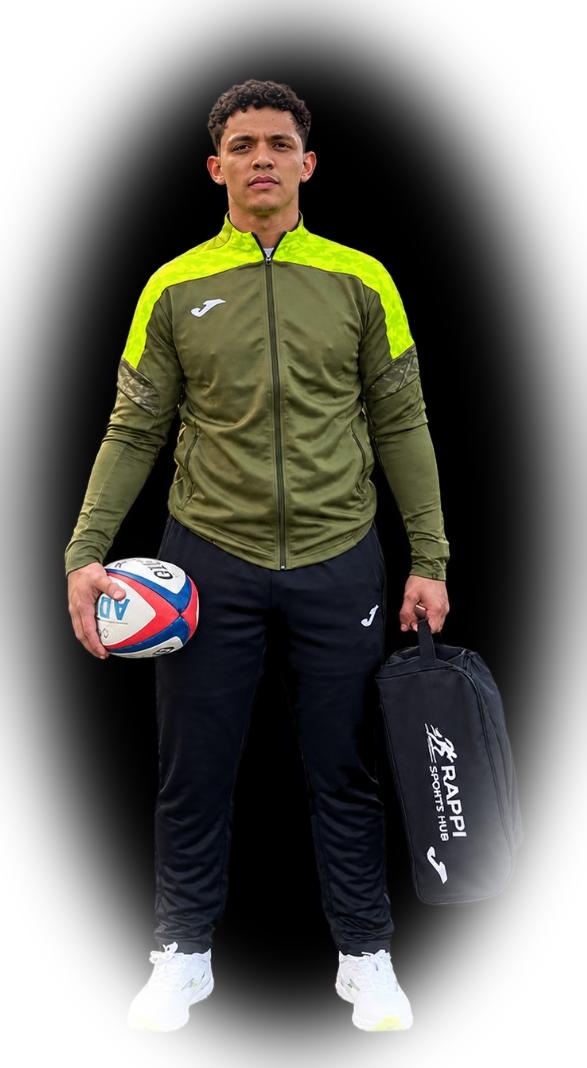
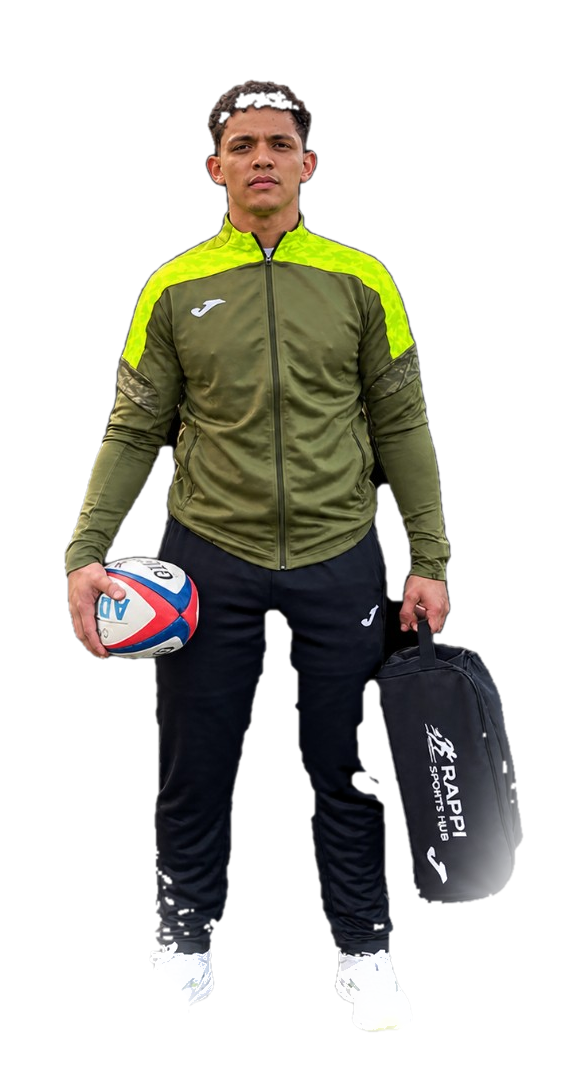
Cut the hero athlete off the dark halo in light mode and portal the mobile menu.

diff --git a/components/site-header.tsx b/components/site-header.tsx
@@ -3,6 +3,7 @@
 import Link from "next/link";
 import { usePathname, useRouter } from "next/navigation";
 import { FormEvent, Suspense, useEffect, useRef, useState } from "react";
+import { createPortal } from "react-dom";
 import { Menu, Search, ShoppingBag, User, X, ChevronDown } from "lucide-react";
 import { BrandLogo } from "@/components/brand-logo";
 import { ThemeToggle } from "@/components/theme-toggle";
@@ -144,16 +145,20 @@ export function SiteHeader({
     ) : null}
     <header
       className={cn(
-        "z-50 border-b pt-[env(safe-area-inset-top)] backdrop-blur-xl backdrop-saturate-150 transition-[background-color,box-shadow,border-color] duration-300",
-        open ? "fixed inset-x-0 top-0" : "sticky top-0",
+        "border-b pt-[env(safe-area-inset-top)] transition-[background-color,box-shadow,border-color] duration-300",
+        // backdrop-filter creates a containing block that clips fixed descendants —
+        // keep blur only when the mobile drawer is closed.
         open
-          ? "border-[var(--border)] bg-[var(--chrome)]"
-          : scrolled
-            ? "border-[var(--border)] bg-[var(--header-bg-scrolled)] shadow-[var(--shadow-soft)]"
-            : "border-[var(--border)] bg-[var(--header-bg)]",
+          ? "fixed inset-x-0 top-0 z-[100] border-[var(--border)] bg-[var(--chrome)]"
+          : cn(
+              "sticky top-0 z-50 backdrop-blur-xl backdrop-saturate-150",
+              scrolled
+                ? "border-[var(--border)] bg-[var(--header-bg-scrolled)] shadow-[var(--shadow-soft)]"
+                : "border-[var(--border)] bg-[var(--header-bg)]",
+            ),
       )}
     >
-      <div className="relative z-[70] page-shell flex h-16 items-center gap-1 sm:h-[5.5rem] sm:gap-4">
+      <div className="page-shell flex h-16 items-center gap-1 sm:h-[5.5rem] sm:gap-4">
         <button
           type="button"
           className="flex h-11 w-11 shrink-0 items-center justify-center rounded-full text-ink transition-colors hover:bg-[var(--hover)] lg:hidden"
@@ -381,86 +386,89 @@ export function SiteHeader({
         </Suspense>
       ) : null}
 
-      {open ? (
-        <div
-          id="mobile-nav"
-          role="dialog"
-          aria-modal="true"
-          aria-label={t("nav.openMenu")}
-          className="fixed inset-0 z-[60] flex flex-col bg-[var(--chrome)] pt-[calc(var(--header-h)+env(safe-area-inset-top))] lg:hidden"
-        >
-          <div className="min-h-0 flex-1 overflow-y-auto overscroll-contain px-4 py-5 pb-[max(1.25rem,env(safe-area-inset-bottom))]">
-          <form onSubmit={onSearch} className="mb-5">
-            <Input
-              value={q}
-              onChange={(e) => setQ(e.target.value)}
-              placeholder={t("nav.searchPlaceholderLong")}
-              className="h-11"
-            />
-          </form>
-          <div className="mb-5 flex items-center justify-between gap-3">
-            <LocaleSwitcher />
-            <ThemeToggle />
-          </div>
-          <ul className="mb-3 grid grid-cols-3 gap-1">
-            {AUDIENCES.map((a) => (
-              <li key={a.slug}>
-                <Link
-                  href={`/shop/${a.slug}`}
-                  className={cn(
-                    "flex min-h-11 items-center justify-center rounded-lg bg-[var(--hover)] px-2 text-xs font-semibold uppercase tracking-wider text-ink hover:text-[var(--accent)]",
-                    activeAudience === a.slug && "text-[var(--accent)]",
-                  )}
-                >
-                  {audienceName(a.slug, t)}
-                </Link>
-              </li>
-            ))}
-          </ul>
-          <ul className="grid grid-cols-2 gap-1">
-            {visibleCategories.map((c) => (
-              <li key={c.slug}>
-                <Link
-                  href={`/category/${c.slug}`}
-                  className={cn(
-                    "flex min-h-11 items-center rounded-lg px-2 text-xs font-semibold uppercase tracking-wider text-ink hover:bg-[var(--hover)] hover:text-[var(--accent)]",
-                    activeSlug === c.slug && "text-[var(--accent)]",
-                  )}
-                >
-                  {hubName(c.slug, t)}
-                </Link>
-              </li>
-            ))}
-          </ul>
-          <div className="mt-5 grid gap-2">
-            <Button asChild className="w-full" variant="outline">
-              <Link href="/promotions">{t("nav.newCollections")}</Link>
-            </Button>
-            <Button asChild className="w-full" variant="outline">
-              <Link href={user ? "/account" : "/login"}>
-                {user ? t("nav.myAccount") : t("nav.signIn")}
-              </Link>
-            </Button>
-            {user ? (
-              <Button
-                type="button"
-                variant="ghost"
-                className="w-full"
-                onClick={() => {
-                  void logout().then(() => {
-                    setOpen(false);
-                    router.push("/");
-                  });
-                }}
-              >
-                {t("nav.logout")}
-              </Button>
-            ) : null}
-          </div>
-          </div>
-        </div>
-      ) : null}
     </header>
+    {ready && open
+      ? createPortal(
+          <div
+            id="mobile-nav"
+            role="dialog"
+            aria-modal="true"
+            aria-label={t("nav.openMenu")}
+            className="fixed inset-x-0 bottom-0 z-[90] flex flex-col bg-[var(--chrome)] top-[calc(var(--header-h)+env(safe-area-inset-top))] lg:hidden"
+          >
+            <div className="min-h-0 flex-1 overflow-y-auto overscroll-contain px-4 py-5 pb-[max(1.25rem,env(safe-area-inset-bottom))]">
+              <form onSubmit={onSearch} className="mb-5">
+                <Input
+                  value={q}
+                  onChange={(e) => setQ(e.target.value)}
+                  placeholder={t("nav.searchPlaceholderLong")}
+                  className="h-11"
+                />
+              </form>
+              <div className="mb-5 flex items-center justify-between gap-3">
+                <LocaleSwitcher />
+                <ThemeToggle />
+              </div>
+              <ul className="mb-3 grid grid-cols-3 gap-1">
+                {AUDIENCES.map((a) => (
+                  <li key={a.slug}>
+                    <Link
+                      href={`/shop/${a.slug}`}
+                      className={cn(
+                        "flex min-h-11 items-center justify-center rounded-lg bg-[var(--hover)] px-2 text-xs font-semibold uppercase tracking-wider text-ink hover:text-[var(--accent)]",
+                        activeAudience === a.slug && "text-[var(--accent)]",
+                      )}
+                    >
+                      {audienceName(a.slug, t)}
+                    </Link>
+                  </li>
+                ))}
+              </ul>
+              <ul className="grid grid-cols-2 gap-1">
+                {visibleCategories.map((c) => (
+                  <li key={c.slug}>
+                    <Link
+                      href={`/category/${c.slug}`}
+                      className={cn(
+                        "flex min-h-11 items-center rounded-lg px-2 text-xs font-semibold uppercase tracking-wider text-ink hover:bg-[var(--hover)] hover:text-[var(--accent)]",
+                        activeSlug === c.slug && "text-[var(--accent)]",
+                      )}
+                    >
+                      {hubName(c.slug, t)}
+                    </Link>
+                  </li>
+                ))}
+              </ul>
+              <div className="mt-5 grid gap-2">
+                <Button asChild className="w-full" variant="outline">
+                  <Link href="/promotions">{t("nav.newCollections")}</Link>
+                </Button>
+                <Button asChild className="w-full" variant="outline">
+                  <Link href={user ? "/account" : "/login"}>
+                    {user ? t("nav.myAccount") : t("nav.signIn")}
+                  </Link>
+                </Button>
+                {user ? (
+                  <Button
+                    type="button"
+                    variant="ghost"
+                    className="w-full"
+                    onClick={() => {
+                      void logout().then(() => {
+                        setOpen(false);
+                        router.push("/");
+                      });
+                    }}
+                  >
+                    {t("nav.logout")}
+                  </Button>
+                ) : null}
+              </div>
+            </div>
+          </div>,
+          document.body,
+        )
+      : null}
     </>
   );
 }

diff --git a/app/page.tsx b/app/page.tsx
@@ -96,7 +96,7 @@ export default async function HomePage() {
           <div className="relative -mx-4 h-[18rem] sm:-mx-0 sm:h-[30rem] lg:-mr-4 lg:h-[44rem]">
             <div
               aria-hidden
-              className="pointer-events-none absolute inset-x-[6%] bottom-[4%] top-[14%] rounded-[100%] bg-[radial-gradient(ellipse_at_center,var(--hero-glow),transparent_70%)] blur-3xl"
+              className="hero-glow pointer-events-none absolute inset-x-[6%] bottom-[4%] top-[14%] rounded-[100%] bg-[radial-gradient(ellipse_at_center,var(--hero-glow),transparent_70%)] blur-3xl"
             />
             <Image
               src="/brand/hero-athlete.png"
@@ -104,7 +104,7 @@ export default async function HomePage() {
               width={900}
               height={1100}
               priority
-              className="absolute inset-x-0 bottom-0 mx-auto h-full w-auto max-w-none object-contain object-bottom [mask-image:linear-gradient(to_top,transparent_0%,#000_8%,#000_100%)] [-webkit-mask-image:linear-gradient(to_top,transparent_0%,#000_8%,#000_100%)]"
+              className="hero-athlete absolute inset-x-0 bottom-0 mx-auto h-full w-auto max-w-none object-contain object-bottom [mask-image:linear-gradient(to_top,transparent_0%,#000_8%,#000_100%)] [-webkit-mask-image:linear-gradient(to_top,transparent_0%,#000_8%,#000_100%)]"
             />
           </div>
           <dl className="col-span-full grid grid-cols-2 gap-4 border-t border-[var(--border)] pt-6 sm:grid-cols-4 lg:hidden">

diff --git a/app/globals.css b/app/globals.css
@@ -277,6 +277,14 @@ html[data-theme="light"] .brand-atmosphere__grain {
   mix-blend-mode: multiply;
 }
 
+html[data-theme="light"] .hero-glow {
+  opacity: 0.45;
+}
+
+html[data-theme="light"] .hero-athlete {
+  filter: drop-shadow(0 16px 28px rgba(16, 24, 12, 0.1));
+}
+
 html[data-theme="light"] .brand-logo {
   filter: drop-shadow(0 8px 18px rgba(16, 24, 12, 0.08));
 }

diff --git a/app/tokens.css b/app/tokens.css
@@ -91,7 +91,7 @@ html[data-theme="light"] {
   --visual-from: #eef1e8;
   --visual-to: #e2e7d8;
   --visual-base: #e8ebe3;
-  --hero-glow: rgba(94, 255, 56, 0.28);
+  --hero-glow: rgba(34, 176, 22, 0.1);
   --toast-bg: #ffffff;
   --toast-border: rgba(18, 21, 18, 0.1);
   --toast-fg: #121512;
